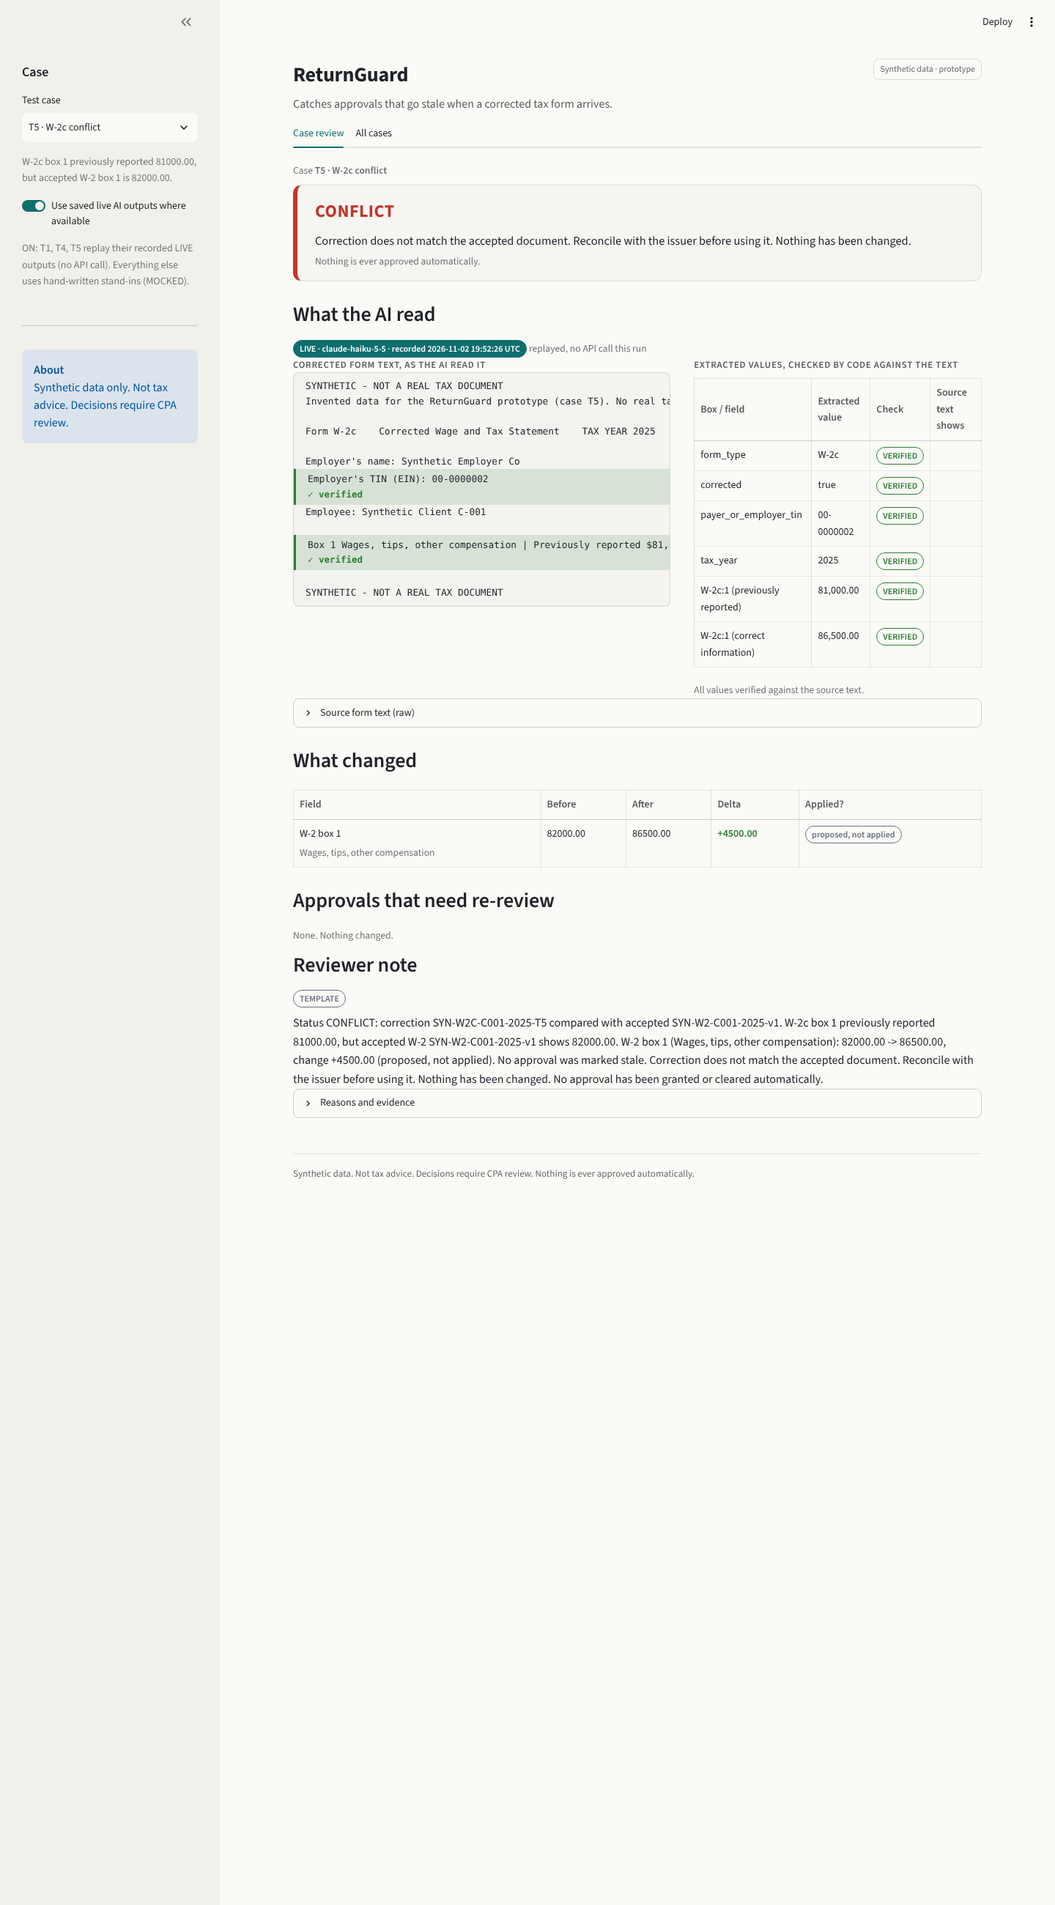
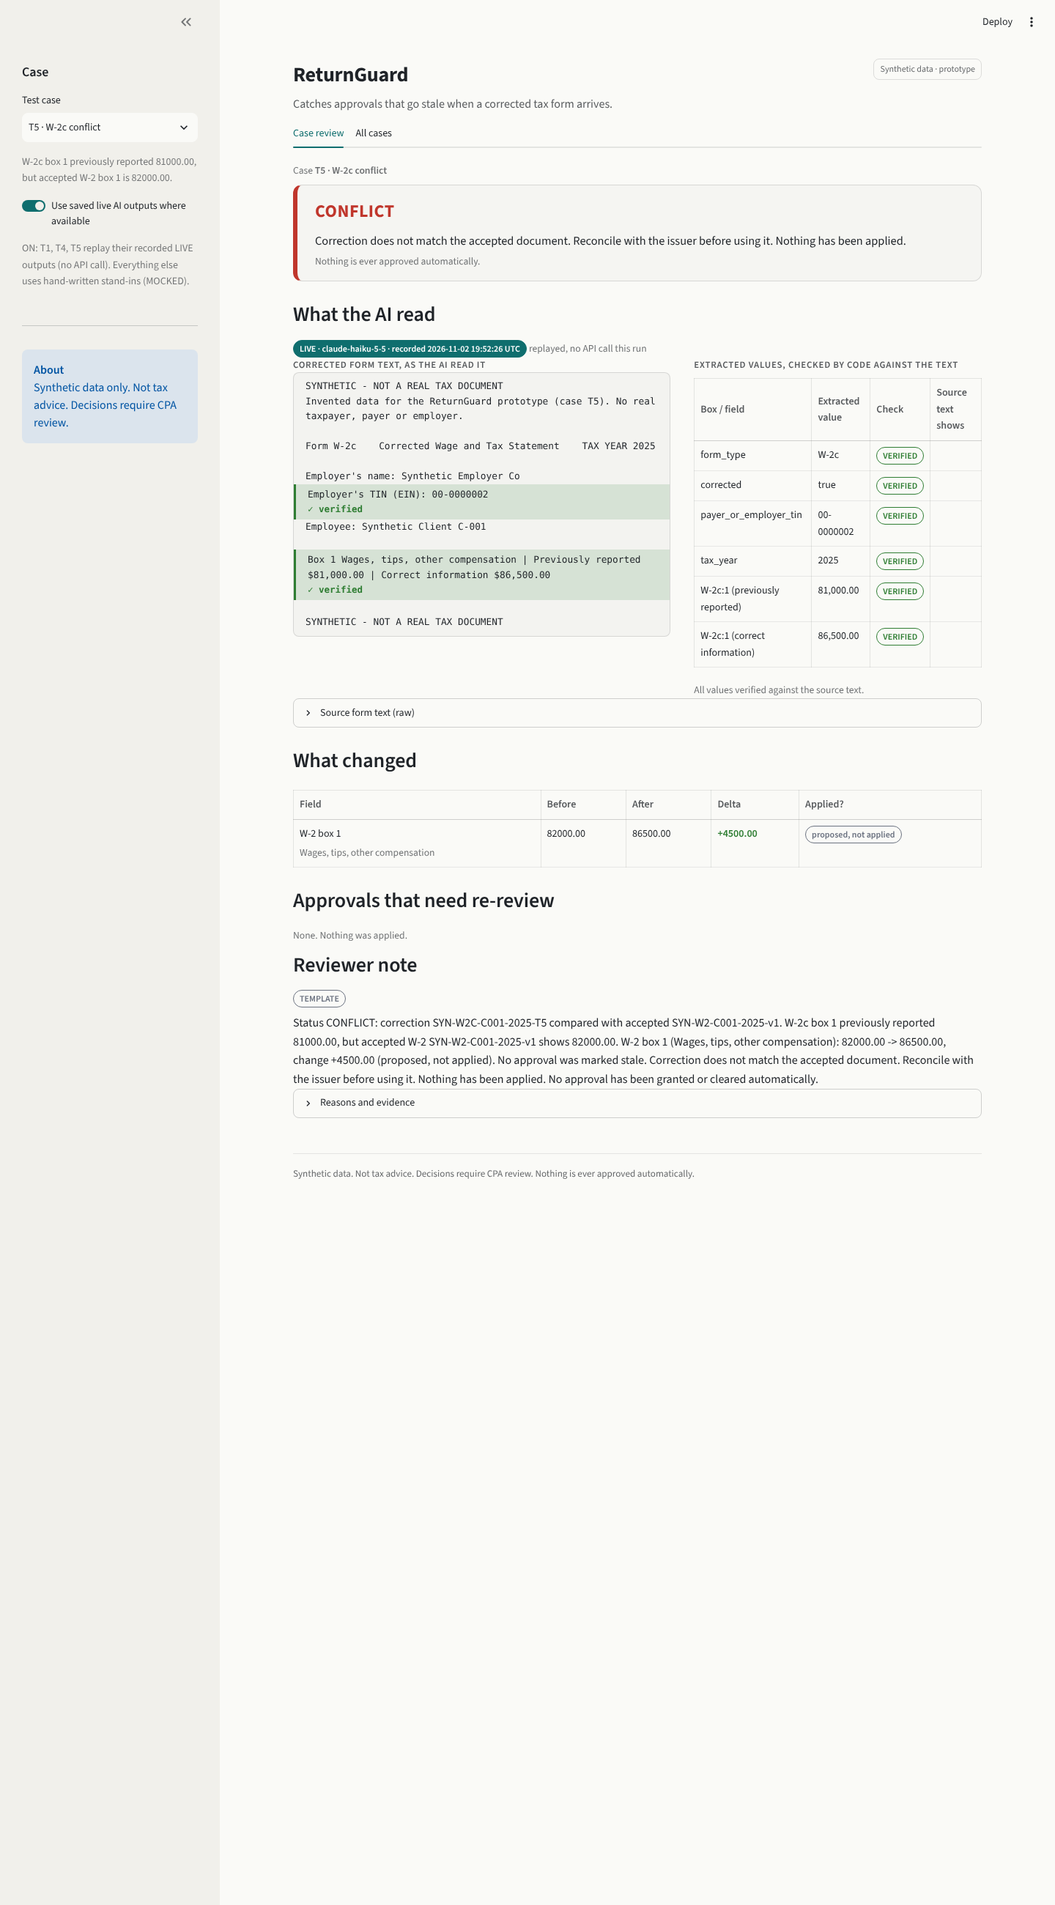
Final polish: README (How to add a form, --live, time log), HANDOFF, T5/T12 screenshots
Claude-Session: https://claude.ai/code/session_01XsBWQsLQZ3ZxmZrQyv6CNd

Changed region(s): [[0.2812, 0.2181, 0.6562, 0.3427]]

diff --git a/README.md b/README.md
@@ -76,7 +76,8 @@ Full T1 page: [docs/screenshots/T1.png](docs/screenshots/T1.png). All cases tab:
 ## 3. How it works
 
 1. **Extract**: an LLM reads the corrected form's text into a fixed JSON schema (form type, corrected flag,
-   TIN, tax year, boxes). The schema has no status, decision or advice. By default this replays a saved output.
+   TIN, tax year, boxes). The schema has no status, decision or advice. The prompt lists the forms defined in
+   `config/forms.yaml`. By default this replays a saved output; only the CLI's `--live` flag calls the API.
 2. **Verify against the source**: code finds the one line for each box (box id + label from `config/forms.yaml`)
    and checks that the extracted amount is the amount on that line. A failure becomes `EXTRACTION_UNVERIFIED`
    and the value is never "fixed".
@@ -87,20 +88,45 @@ Full T1 page: [docs/screenshots/T1.png](docs/screenshots/T1.png). All cases tab:
    approvals stale, with SHA-256 evidence fingerprints over the fields each approval was based on.
 5. **One status**: exactly one of six statuses (priority below).
 6. **Grounded note**: an LLM may draft the reviewer note, but any number in it that is not a checked fact
-   rejects the note and a template note is used instead.
+   rejects the note and a template note is used instead. A money-formatted number (`$` or 2 decimals) must equal
+   a real amount or delta; box ids, line numbers and the tax year count only as plain numbers.
 7. **Audit log**: one append-only JSON line per decision (`out/audit_log.jsonl`, CLI only).
 
 **Status priority (first match wins):**
 `REJECTED_INVALID_INPUT` > `SPECIALIST_REVIEW` > `CONFLICT` > `DUPLICATE_NO_CHANGE` > `POSSIBLE_AMENDMENT` > `APPLY_AND_REREVIEW`
 
-Rules live in config, so adding a form or field (e.g. 1099-INT) means editing `forms.yaml` +
-`dependencies.yaml` and adding a fixture and a test, with no new Python logic.
+Rules live in config: adding a form or a field is a config and data change with **no Python change** (see below).
+A form type that `config/forms.yaml` does not define becomes `UNKNOWN_FORM_TYPE` -> `SPECIALIST_REVIEW`, never a crash.
+
+### How to add a form
+
+Example: corrected 1099-INT. `tests/test_new_form_via_config.py` does exactly these steps on a temporary copy of the
+repo and checks that every Python file in the copy is byte-identical to this repo's.
+
+1. **`config/forms.yaml`**: add the form under `forms:` with `title`, `kind` (`source`, or `correction` for a form
+   like W-2c that corrects another), `identity_fields`, `correction` (`style: reissue` or `previous_and_correct`,
+   `corrects`, `requires_corrected_flag`), `fields` (box -> `label`, `supported`), optional `unsupported_fields` and
+   `rules`. Cite the IRS source in a comment, or mark it `# UNVERIFIED`.
+2. **`config/dependencies.yaml`**: add each new approval to `approval_items`, and one edge per box under
+   `dependencies` (`"1099-INT:1"` -> `return_line`, `approval`, `source`; add `unverified: true` until checked).
+3. **`data/synthetic/accepted_<form>_C-001_2025.json`**: the accepted document a correction is compared with
+   (`"synthetic": true`, `_label`).
+4. **`data/synthetic/return_state_C-001_2025.json`**: add the approvals that rely on the new boxes (`based_on`).
+5. **`data/synthetic/cases/T<n>.json`**: a fixture with an `expected` block, then a test.
+6. Optional, for the AI path: `data/synthetic/raw/T<n>.txt` (box lines must contain the config label) and a
+   MOCKED stand-in `data/llm_cache/T<n>.json`. The live prompt picks the new form up from config automatically.
+
+Then run `python3 -m pytest -q` and `python3 cli.py --all`; the running UI picks config changes up on a page reload.
+Adding a **field** to an existing form is steps 1–2 only. If a fixture's expected result encodes the old rule
+(e.g. T15 expects box 7 to be unsupported), update that fixture and its tests in the same change.
+Not config-driven (optional, display only): the naive "did total income change?" comparison exists only for
+1099-DIV box 1a (`NAIVE_TOTAL_FIELD` in `returnguard/decide.py`).
 
 ## 4. Project layout
 
 ```
 app.py                     Streamlit review console (display only; calls cli.py's functions)
-cli.py                     command line: one case, --json, --from-text, --use-live-cache, --all
+cli.py                     command line: one case, --json, --from-text, --use-live-cache, --live, --all
 config/forms.yaml          fields + validation rules per form (IRS sources cited in comments)
 config/dependencies.yaml   field -> return line -> approval map (UNVERIFIED mappings flagged)
 returnguard/
@@ -113,7 +139,7 @@ returnguard/
   explain.py               reviewer note + number-grounding check
 data/synthetic/            SYNTHETIC inputs: accepted docs, return state, cases/T1-T15.json, raw/*.txt
 data/llm_cache/            AI outputs: *.json (MOCKED stand-ins), *.live.json (LIVE recordings)
-tests/                     pytest (341 tests)
+tests/                     pytest (364 tests)
 .streamlit/config.toml     UI theme
 docs/                      brief, project plan, v1 memo, screenshots
 ```
@@ -175,7 +201,8 @@ output, no API call this run"); all 8 checks VERIFIED; status APPLY_AND_REREVIEW
 ```bash
 python3 cli.py --all
 ```
-Every fixture: expected vs actual (table in section 7). Exits 1 on any mismatch.
+Every fixture: expected vs actual (table in section 7). Exits 1 on any mismatch. `--all` **always replays saved
+outputs**: it never calls the API, whatever is set in the environment (`--all --live` is refused).
 
 **Audit log:** the CLI appends one JSON line per decision to `out/audit_log.jsonl` (gitignored; change it with
 `--log PATH`). **The UI does not write the audit log**, because Streamlit re-runs the whole script on every
@@ -238,10 +265,13 @@ T15   SPECIALIST_REVIEW                        SPECIALIST_REVIEW                
 | T14 | No-op | Corrected, all values identical |
 | T15 | Unknown field | 1099-DIV box 7 changes |
 
-`python3 -m pytest -q` (real run, Session 5b): **`341 passed in 7.74s`**. This includes `tests/test_app_smoke.py`,
+`python3 -m pytest -q` (real run, final polish): **`364 passed in 7.05s`**. This includes `tests/test_app_smoke.py`,
 which loads `app.py` with Streamlit's `AppTest`, selects T1, T12, T5, T3 and T13, and checks every case renders
-its expected status and the All cases tab shows 15 of 15. It also checks that the UI never calls the API, even with `RETURNGUARD_LLM=live` and a key set
-(the live call is patched to fail and every page still renders).
+its expected status and the All cases tab shows 15 of 15. It also checks that the UI never calls the API, even with
+`RETURNGUARD_LLM=live` and a key set (the live call is patched to fail and every page still renders).
+`tests/test_new_form_via_config.py` adds a 1099-INT form through config on a temporary copy and runs it end to end
+(JSON, form text and `--all`) with byte-identical Python files; `tests/test_cli_live_safety.py` checks that only
+`--live` calls the API and that a failed live call is one line and exit 1.
 
 ## 8. Live AI run
 
@@ -264,18 +294,22 @@ pip install -r requirements.txt -r requirements-llm.txt
 ```
 
 ```bash
-export RETURNGUARD_LLM=live ANTHROPIC_API_KEY=your-key RETURNGUARD_LLM_MODEL=claude-haiku-5-5
+export ANTHROPIC_API_KEY=your-key
 ```
 
 ```bash
-python3 cli.py --from-text data/synthetic/raw/T1.txt --case T1
+python3 cli.py --from-text data/synthetic/raw/T1.txt --case T1 --live
 ```
 
-`RETURNGUARD_LLM_MODEL` is optional (default `claude-haiku-5-5`). A live run overwrites `data/llm_cache/T1.live.json`;
-the MOCKED files are never touched. **Temperature is not sent**: Claude Haiku 5.5 rejects non-default
+**Only the `--live` flag calls the API**, and it also needs `ANTHROPIC_API_KEY`. `RETURNGUARD_LLM=live` on its own
+does nothing; without `--live` the CLI always replays saved outputs, and `--all` never calls the API.
+`RETURNGUARD_LLM_MODEL` is optional (default `claude-haiku-5-5`). If the call fails (no key, no SDK, network or API
+error) the CLI prints one line, `Live extraction failed: <reason>. Re-run without --live to use saved outputs.`, and
+exits 1, with no traceback and no file written. A successful live run overwrites `data/llm_cache/T1.live.json`;
+the MOCKED files are never touched. The live prompt lists the forms in `config/forms.yaml` (prompt `extract-v2`);
+the recorded T1/T4/T5 outputs above were made with the earlier `extract-v1` prompt, which named 1099-DIV and W-2c. **Temperature is not sent**: Claude Haiku 5.5 rejects non-default
 `temperature`/`top_p`/`top_k` with HTTP 400. Consistency comes from the fixed prompt and schema, the schema check,
-and code verification of every value against the source text. **The UI never calls the API**: it always replays saved outputs (`mode="cached"`), even if live mode is set
-in the environment. Live runs are CLI-only.
+and code verification of every value against the source text. **The UI never calls the API**: it always replays saved outputs (`mode="cached"`). Live runs are CLI-only (`--live`).
 
 ## 9. Implemented / mocked / deferred
 
@@ -286,9 +320,11 @@ in the environment. Live runs are CLI-only.
 | Dependency walk + stale approvals + SHA-256 evidence fingerprints | **Implemented** |
 | Six statuses, priority order, duplicate detection, new document versions | **Implemented** |
 | Source check of every AI-extracted value | **Implemented** |
-| Number-grounding check of AI reviewer notes | **Implemented** |
+| Number-grounding check of AI reviewer notes (money tokens must be real amounts or deltas) | **Implemented** |
+| New forms / fields from config only; unknown form type -> SPECIALIST_REVIEW | **Implemented** (tested with 1099-INT on a temporary copy) |
+| Live extraction only via CLI `--live`; one-line error on failure | **Implemented** |
 | Append-only audit log (CLI) | **Implemented** |
-| CLI + Streamlit UI + 341 tests | **Implemented** |
+| CLI + Streamlit UI + 364 tests | **Implemented** |
 | AI extraction for T1/T4/T5 | **LIVE** recorded outputs, replayed (no API call) |
 | AI extraction for T12, AI note for T13 | **MOCKED** (hand-written stand-ins) |
 | Return status (APPROVED / FILED) | **MOCKED** (entered by hand; labelled) |
@@ -302,8 +338,11 @@ in the environment. Live runs are CLI-only.
 - **Abbreviated box labels won't verify.** A box line must contain the label from `forms.yaml`, so a form that
   prints "Total capital gain distr." makes that box UNVERIFIED. This fails safe (to SPECIALIST_REVIEW), but it
   adds review work. Label aliases in config would fix it. Amounts also need 2 decimals to verify.
-- **The note check checks numbers, not direction.** An AI note citing only allowed numbers could still describe
-  them wrongly (e.g. "rose by 800.00"). The template note is the safe default.
+- **The note check checks numbers, not direction or pairing.** Money-formatted numbers must be real amounts or
+  deltas, but a note could still use them wrongly (e.g. "rose by 800.00", or old and new swapped), and plain numbers
+  that match an id (e.g. "4 approvals", from box 4) still pass. The template note is the safe default.
+- **Stale approvals come from `config/dependencies.yaml`**: an approval mapped there is listed as stale even if the
+  return state has no such approval (nothing cross-checks the two).
 - **IRS mappings still UNVERIFIED** (flagged `unverified: true` in `config/dependencies.yaml`, shown as dashed
   "unverified mapping" chips in the UI):
   - 1099-DIV box 1a -> Form 1040 line 3b (APR-1040-L3B)
@@ -325,7 +364,7 @@ in the environment. Live runs are CLI-only.
 - **Inside the product:** live LLM extraction was run on T1, T4 and T5 (`claude-haiku-5-5`). Every extracted
   value is checked by code against the source text line by line. The LLM cannot set a status (the schema has no
   such field). An AI-drafted note is accepted only if every number in it is a checked fact.
-- **Checking the AI's output:** 341 tests, including deliberate AI failures (T12 misread, T13 ungrounded note) and
+- **Checking the AI's output:** 364 tests, including deliberate AI failures (T12 misread, T13 ungrounded note) and
   a test that re-verifies every recorded live output against the raw text.
 - **Reused prior work:** none.
 
@@ -343,11 +382,16 @@ The first commit marks the build start.
 | Session 3: decide + audit + CLI | 11:28 PST `9c9cf9c` | 11:28 PST `cf17284` |
 | Session 4: extract + explain, follow-up, live run | 11:41 PST `cb6aba1` | 11:55 PST `1c4aebd` |
 | Session 5: UI + README | 12:05 PST `cd0255c` | 12:09 PST `30973e4` |
-| Session 5b: polish fixes | 12:23 PST `5735a04` | 12:24 PST (README + HANDOFF commit) |
+| Session 5b: polish fixes | 12:23 PST `5735a04` | 12:24 PST `0dc82ed` |
+| Session 6: fresh-eyes review (REVIEW.md) | 15:52 PST `6428456` | 16:30 PST `11dfebf` |
+| Final polish: config-driven forms, `--live`, grounding, wording | 16:45 PST `2796aec` | 16:47 PST (merge into `main`) |
 
-[RESEARCH AND MEMO TIME: filled in by Sakshi]
+**Build: 10:41–12:31 PST and 15:49–16:47 PST** (from git). I paused for about 3 hours after hitting a daily usage
+limit; there was no work and there are no commits in that gap. Build time: **about 2 h 48 min**.
 
-[TOTAL: filled in by Sakshi]
+Research, problem selection and original memo, done earlier: [RESEARCH AND MEMO TIME]
+
+Total: [TOTAL] (build time above + research and memo time)
 
 ## 13. What I'd investigate next
 

diff --git a/HANDOFF.md b/HANDOFF.md
@@ -6,6 +6,20 @@
 > `docs/brief.docx` and `docs/memo_v1.pdf` (named in CLAUDE.md) are intentionally absent from the repo.
 > Ignore them: `docs/brief.md` and `docs/project_plan.md` are the sources of truth.
 
+## Status after final polish. Date: 2026-11-02
+Branch `returnguard/final-polish` (from origin/main 11dfebf), merged into `main`. Commits as `sakshiasati17`.
+Done (REVIEW.md F5, F6, F9, F10, F12, F13 fixed): form types come from `config/forms.yaml` (models accept any name; a form not
+in config -> `UNKNOWN_FORM_TYPE` / SPECIALIST_REVIEW in `decide.py` before `validate()`; the live prompt lists the forms from config,
+prompt `extract-v2`); the API is called ONLY with CLI `--live` + `ANTHROPIC_API_KEY` (`RETURNGUARD_LLM` does nothing, `--all`
+always replays); a failed live call prints one line and exits 1; money tokens in AI notes must be real amounts/deltas; blocked
+statuses say "Nothing has been applied". README: "How to add a form", live commands, time log; T5/T12 screenshots retaken.
+Tests: new `test_new_form_via_config.py` (1099-INT on a temp copy, byte-identical Python), `test_cli_live_safety.py`, 6 grounding
+tests. Existing tests changed only for the new wording and the `--live` switch (no expected status, amount or fixture changed).
+`python3 -m pytest -q`: `364 passed in 7.05s`. `python3 cli.py --all`: 15 of 15 match, exit 0.
+Open: README `[RESEARCH AND MEMO TIME]` / `[TOTAL]` (Sakshi); `docs/writeup.md` not in repo; GitHub default branch is still
+`returnguard-setup`; `requirements-llm.txt` comment still says "needs RETURNGUARD_LLM=live" (file not in this session's scope).
+Still open from REVIEW.md: F4 (stale list not cross-checked with return state), F8 (abbreviated labels), F11 (wording only).
+
 ## Status after Session 6 (fresh-eyes review). Date: 2026-11-02
 Review done from a clean clone of `main` @ 0dc82ed; full report in **`REVIEW.md`**. Branch `returnguard/session-6-review`, merged into `main`.
 Verdict: prototype PASS (341 passed, 15 of 15 match, safety PASS, UI makes 0 API calls in live mode). Only README change: quick start runs pytest/CLI before `streamlit run`.
@@ -33,7 +47,7 @@ Branch: `returnguard/session-5b-polish` (from origin/main 30973e4), merged into 
    changed, because the All cases tab runs T12 through `run_all` -> `run_text_case` with the default mode, which would
    have called the API in live mode. Fixed by the same passthrough.
    New test `test_app_never_calls_the_api_even_in_live_mode`: sets `RETURNGUARD_LLM=live` + a dummy key, asserts
-   `live_enabled()` is True, patches `extract._call_live` to raise, then renders T1 (toggle ON -> LIVE replay, OFF ->
+   `live_enabled()` is True (final polish: `live_enabled()` removed; the test now asserts `has_api_key()`), patches `extract._call_live` to raise, then renders T1 (toggle ON -> LIVE replay, OFF ->
    MOCKED) and T12; all render with the expected status. Plus `test_fixture_descriptions_have_no_placeholder`.
 4. **Form-text panel wraps** (`white-space: pre-wrap; overflow-wrap: anywhere`, no `overflow-x`). Checked in Chromium at
    1100px width: panel scrollWidth == clientWidth (344 == 344), no sideways scroll.
@@ -82,7 +96,7 @@ The cloud session's auto-assigned `claude/sweet-carson-qi1ewb` branch was NOT us
   writes the audit log.
   - Sidebar: case picker (T1, T12, T5, T3, T4 with headline labels, then T2, T6-T11, T13-T15 by fixture angle),
     toggle "Use saved live AI outputs where available" (default ON -> `use_live_cache=True`; T1/T4/T5 replay
-    `.live.json` = LIVE, T12 falls back to MOCKED), About box, and a warning if `RETURNGUARD_LLM=live` + key are set
+    `.live.json` = LIVE, T12 falls back to MOCKED), About box, and a warning if `RETURNGUARD_LLM=live` + key are set (superseded: Session 5b removed the warning; since final polish the env variable does nothing)
     (text cases would then call the API; `run_text_case` has no mode argument).
   - Main ("Case review" tab), top to bottom: header + "Synthetic data · prototype" tag; status banner (coloured left
     border, next action, "Nothing is ever approved automatically."); naive check vs ReturnGuard cards (1099-DIV only);
@@ -132,7 +146,7 @@ The cloud session's auto-assigned `claude/sweet-carson-qi1ewb` branch was NOT us
 2. T12/T13 fixture `description` and `llm_cache.status` still start "PLACEHOLDER: ... built in Session 4".
    The UI strips the "PLACEHOLDER: " prefix in the sidebar caption (display only); the CLI still prints it.
    Fixture text should be cleaned in a data-scoped session.
-3. If `RETURNGUARD_LLM=live` and a key are set when the UI runs, text cases call the API and overwrite `.live.json`
+3. (Resolved in 5b; since final polish `RETURNGUARD_LLM=live` does nothing.) If `RETURNGUARD_LLM=live` and a key are set when the UI runs, text cases call the API and overwrite `.live.json`
    (the UI shows a warning). A `mode` argument on `cli.run_text_case` would let the UI force cached mode.
 4. Long W-2c lines scroll horizontally in the evidence panel at laptop width.
 5. **GitHub default branch is `returnguard-setup`** (at 478898f, Session 4 code, no app.py), not `main`. A plain
@@ -225,10 +239,12 @@ used; the rejected draft is kept in `NoteResult.llm_text` for the audit trail. T
 passes its own check (tested on 9 cases).
 
 ### Live mode (optional, never used by tests)
+**Superseded by final polish:** live now needs the CLI `--live` flag plus `ANTHROPIC_API_KEY`; `RETURNGUARD_LLM=live`
+alone does nothing and `--all` never calls the API. Current commands:
 ```
 pip install -r requirements.txt -r requirements-llm.txt
-export RETURNGUARD_LLM=live ANTHROPIC_API_KEY=...        # optional: RETURNGUARD_LLM_MODEL (default claude-haiku-5-5)
-python3 cli.py --from-text data/synthetic/raw/T1.txt --case T1
+export ANTHROPIC_API_KEY=...        # optional: RETURNGUARD_LLM_MODEL (default claude-haiku-5-5)
+python3 cli.py --from-text data/synthetic/raw/T1.txt --case T1 --live
 # later, replay that real output with no API call:
 python3 cli.py --from-text data/synthetic/raw/T1.txt --case T1 --use-live-cache
 ```
@@ -239,8 +255,8 @@ thinks by default and thinking counts toward `max_tokens`, so the cap is generou
 `max_tokens` or `refusal` stop is an error (no partial extraction). Output parsed as JSON and passed through `check_schema`.
 The real output is recorded to `data/llm_cache/<case>.live.json` (`"live": true`, `"source": "live"`, model, `recorded_at`);
 the hand-written MOCKED files are never overwritten. `--use-live-cache` (or `use_live_cache=True`) replays the `.live.json`
-when it exists, labelled LIVE, else falls back to the MOCKED file. `RETURNGUARD_LLM=live` without a key -> still cached;
-`mode="live"` without both -> clear error. Tests delete both env vars and monkeypatch `_call_live` to raise; one test stubs
+when it exists, labelled LIVE, else falls back to the MOCKED file. (Session 4 behaviour, superseded by final polish: `RETURNGUARD_LLM=live` without a key -> still cached;
+`mode="live"` without both -> clear error.) Tests delete both env vars and monkeypatch `_call_live` to raise; one test stubs
 it to check the LIVE save path; one runs the real `_call_live` body against a FAKE `anthropic` module to check the request
 leaves out the rejected parameters. `test_recorded_live_outputs_verify_against_raw_text` checks any `*.live.json` against
 the raw text and is SKIPPED while none exist (currently skipped).
@@ -286,7 +302,8 @@ pytest -q (real output, follow-up): `328 passed, 1 skipped in 3.52s` (the skip i
 `*.live.json` exists). `python3 cli.py --all`: all 15 rows `match`, exit 0.
 
 ### Live run (2026-11-02, T1 / T4 / T5)
-- `RETURNGUARD_LLM=live python3 cli.py --from-text data/synthetic/raw/<case>.txt --case <case>` with `claude-haiku-5-5`.
+- `RETURNGUARD_LLM=live python3 cli.py --from-text data/synthetic/raw/<case>.txt --case <case>` with `claude-haiku-5-5`
+  (the Session 4 switch, prompt `extract-v1`; today the same run is `python3 cli.py --from-text ... --case <case> --live`).
   Each first call succeeded. Saved `data/llm_cache/T1.live.json`, `T4.live.json`, `T5.live.json` (`"live": true`,
   `"source": "live"`, model, `recorded_at`). Every value VERIFIED against the source text (T1 8/8, T4 6/6, T5 6/6).
   Statuses: T1 APPLY_AND_REREVIEW (-800.00), T4 APPLY_AND_REREVIEW (+4500.00), T5 CONFLICT, matching expected.
